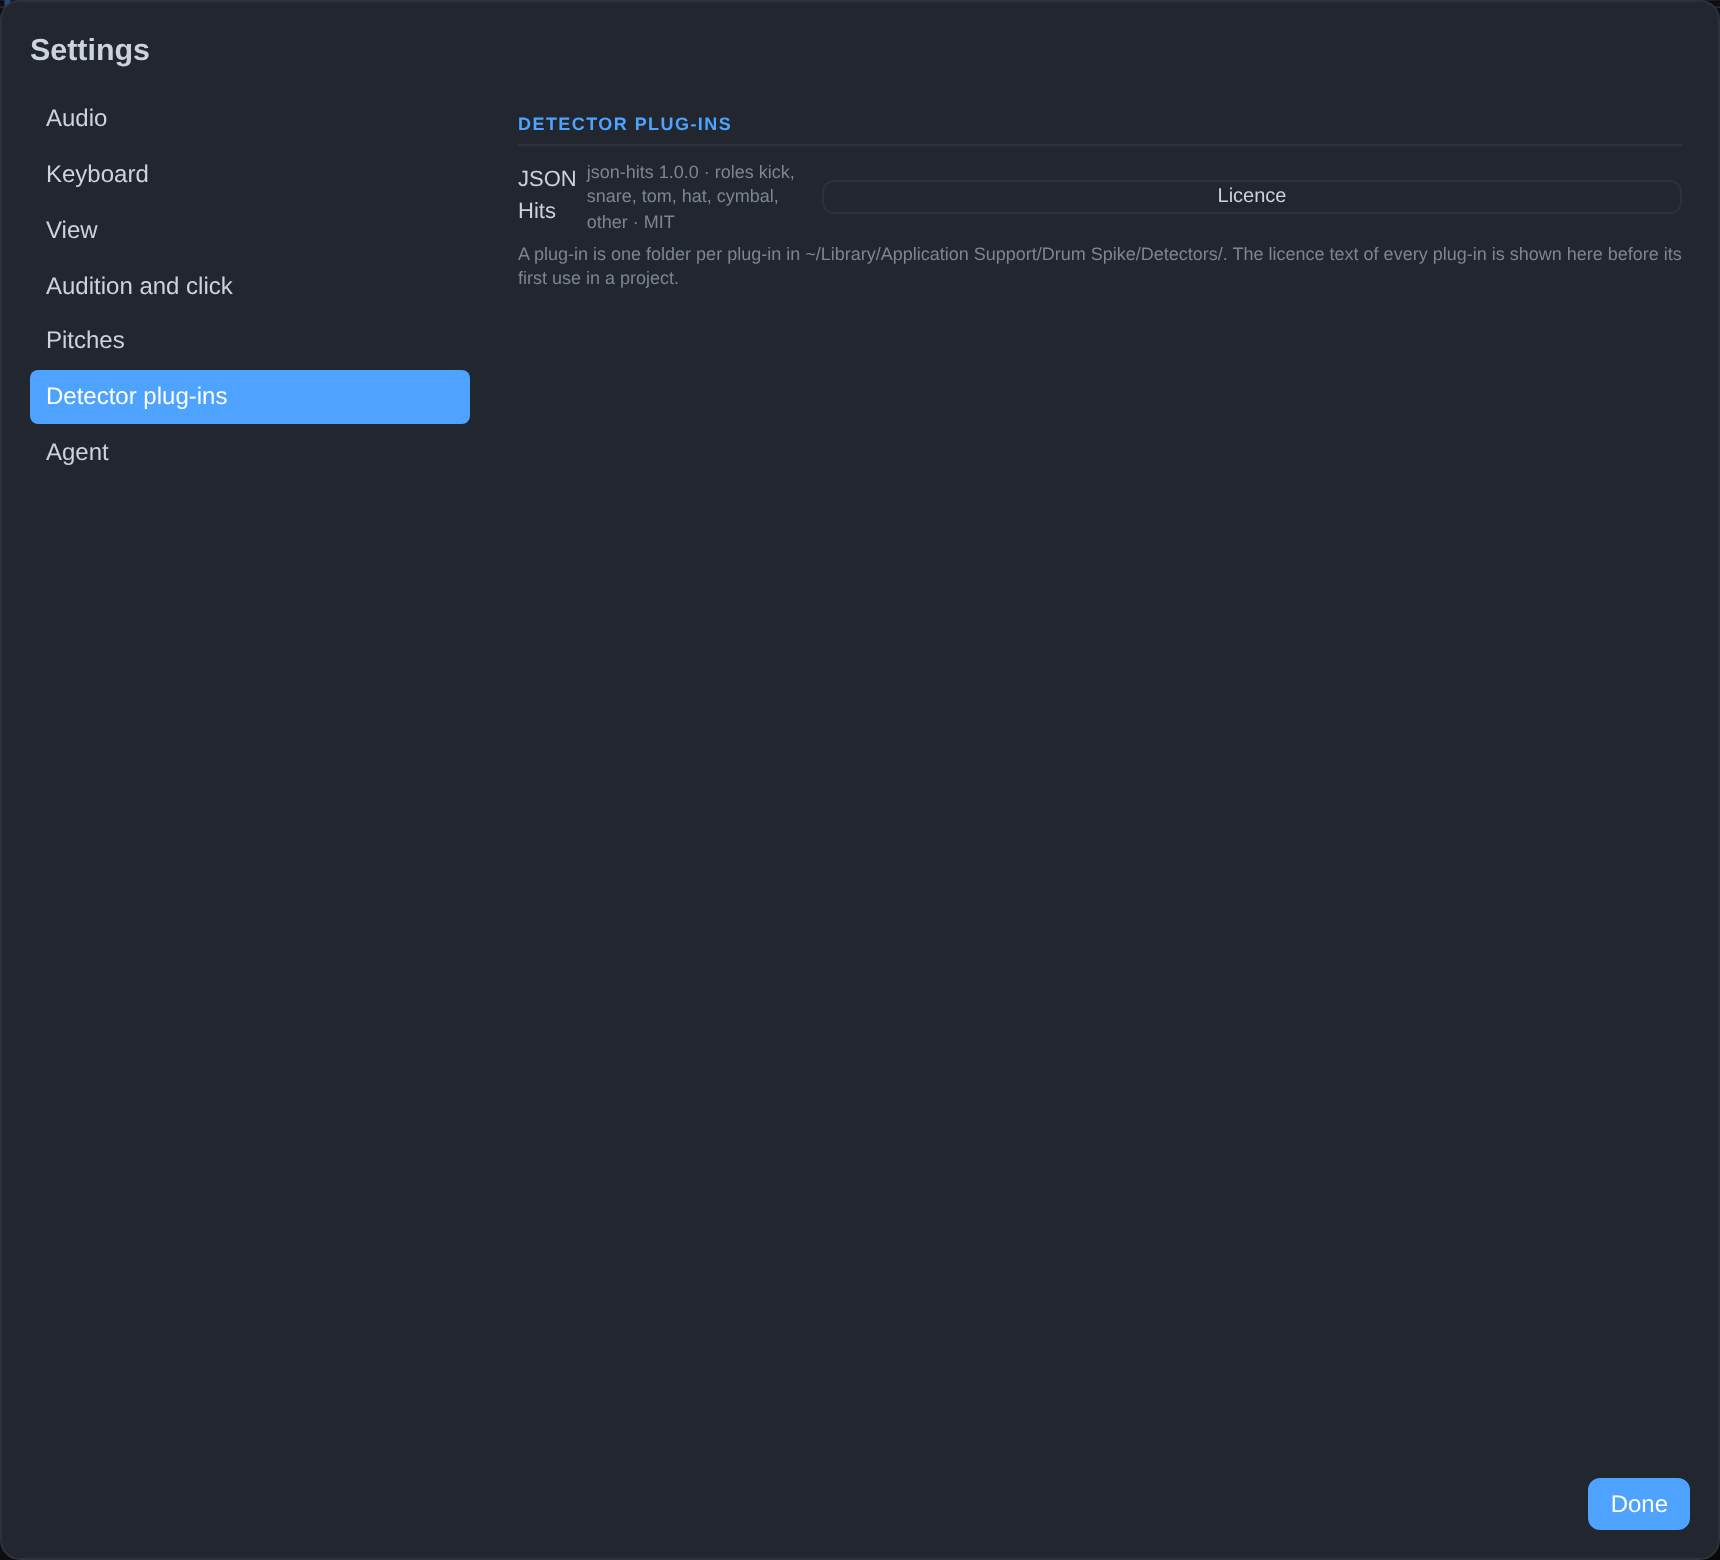
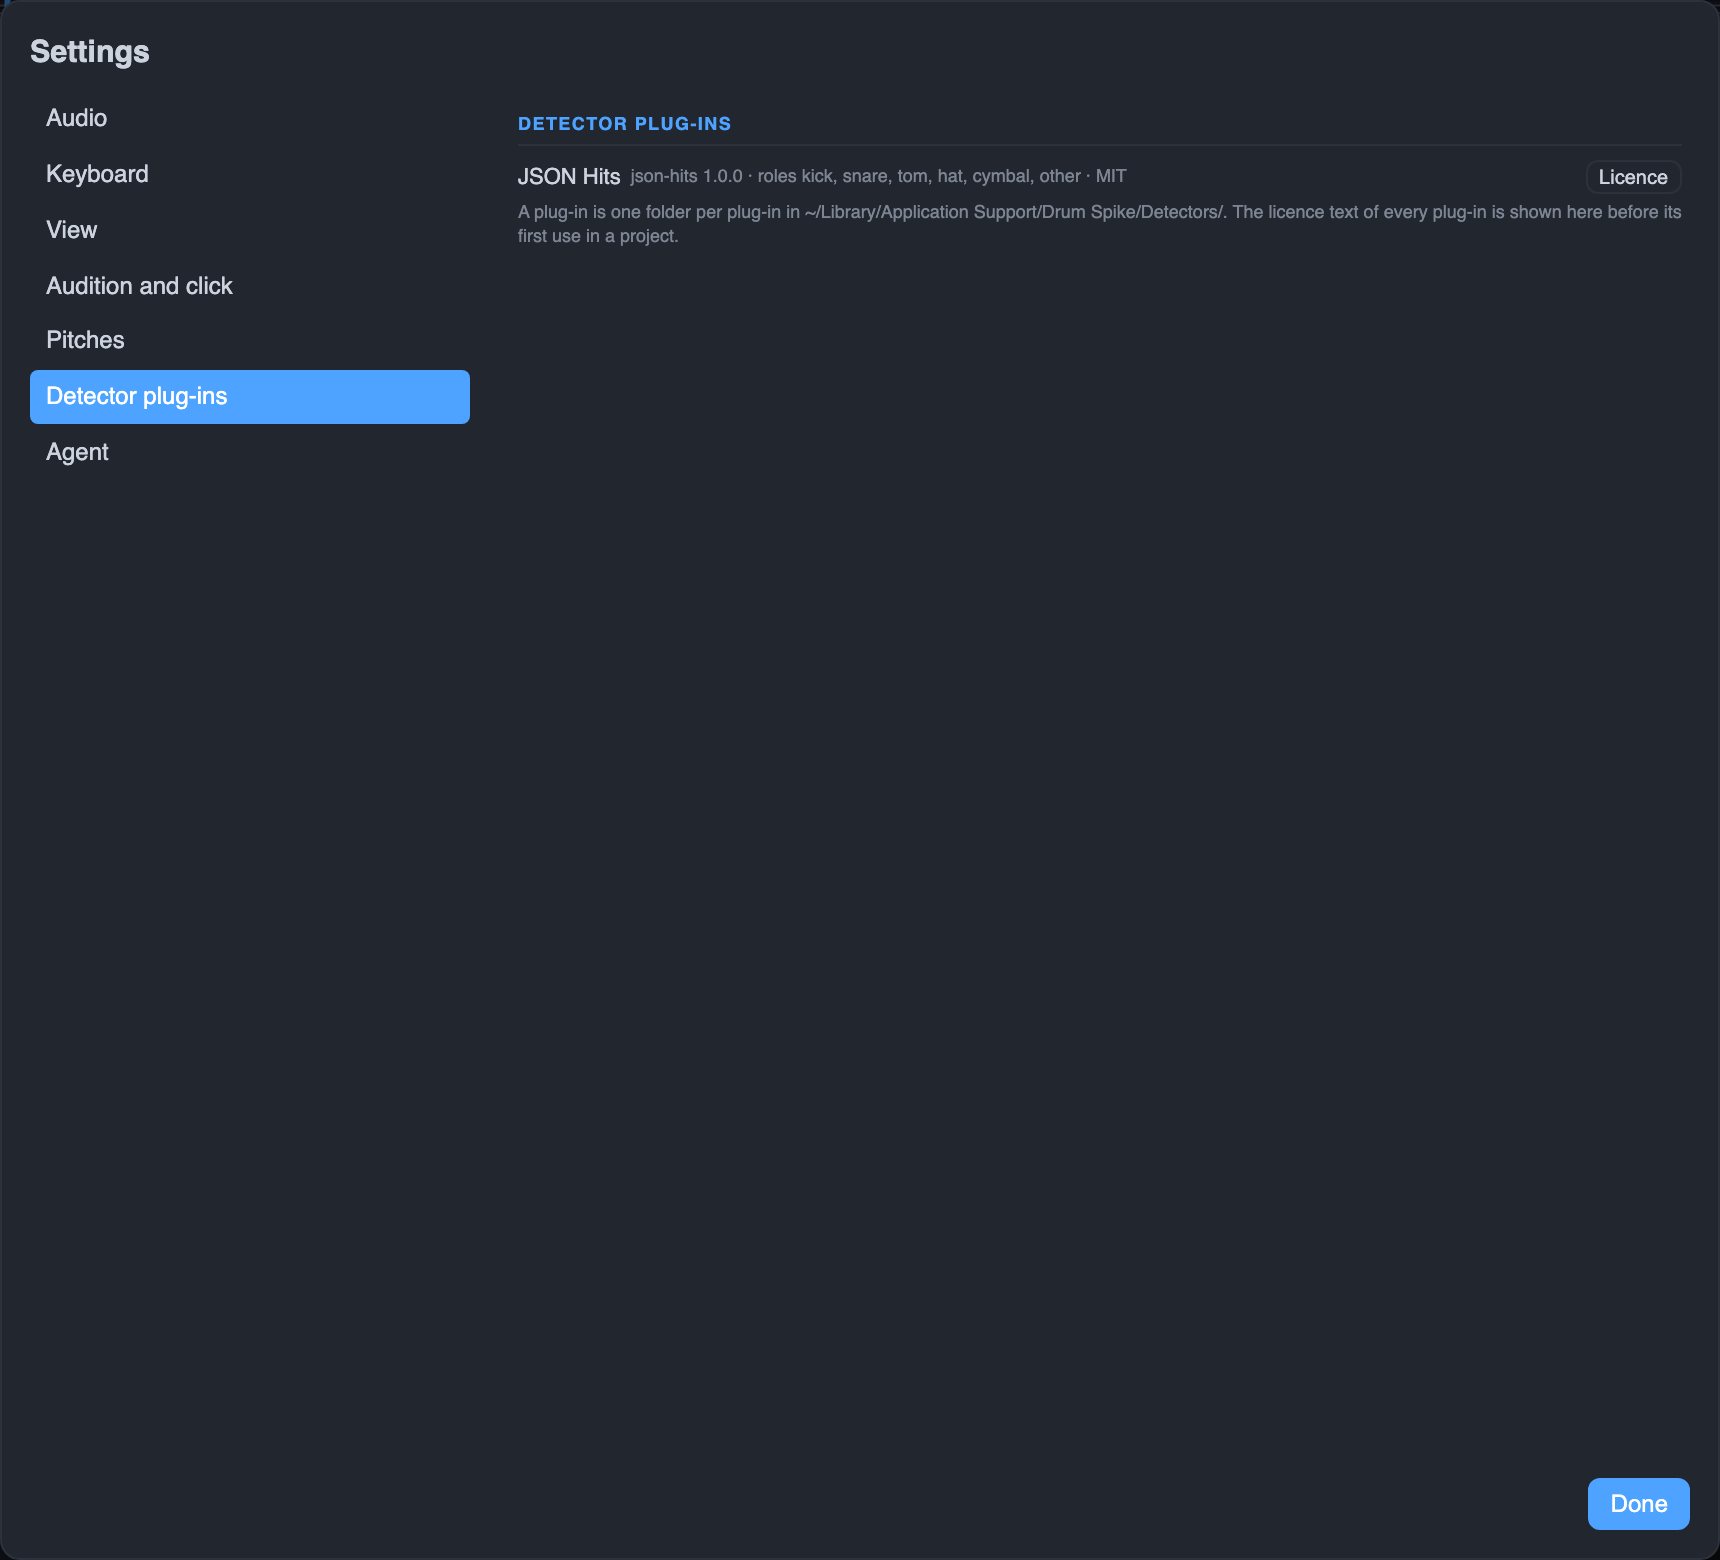
Settings: a detector plug-in row reads as one row (name on one line, Licence button at its width) (#487)
* Settings: a Detector plug-ins row reads as one row (#479)

The Settings row grid put every row's label in a 140 px column and its
control in the rest: a plug-in row's name wrapped inside the 140 px and
the Licence button stretched over the whole row. The plug-in rows now
take 1fr auto: the name and its hint take the row's width, the Licence
button keeps its own width at the row's right edge.

The new e2e test installs the example plug-in and measures the row at
1280x800 and 1920x1080: the name on one line box, the button not wider
than 160 px, the row's right edge the button's right edge.

* docs: retake plugin settings screenshot after row layout fix

tools/media/shots.py --chapters 3 at 2bf5a3cbfb2c; only
docs/guide/img/03b-plugin-settings.png is kept. The two other
chapter 3 pictures are byte-identical to origin/main again.

* docs: rebuild help copy with the retaken plugin settings screenshot

* Settings: serve the checkout's own static folder in the shot bridge (#479)

tools/media/shots.py start_bridge passes --static <ROOT>/static to
ds-bridge: a bridge binary built in another checkout baked that
checkout's static folder at compile time and served the old row
(ds-bridge has no --models; the model-free main needs none).

docs/guide/img/03b-plugin-settings.png retaken at the new head: the
name "JSON Hits" and its detail text on one line each, the Licence
button compact at the row's right edge (62080 bytes). The two other
[…]

Changed region(s): [[0.3081, 0.0923, 0.9552, 0.1846], [0.0308, 0.0308, 0.0924, 0.1231], [0.0308, 0.2462, 0.0616, 0.3077]]

diff --git a/static/style.css b/static/style.css
@@ -305,6 +305,10 @@ canvas.spike.onHit { cursor: ew-resize; }
 #settingsModal .setCat { display: none; }
 #settingsModal .setCat.active { display: block; }
 #settingsModal .prow { grid-template-columns: 140px 1fr; }
+/* #479: the plug-in rows read as one row: the name and its hint take the row's width and the
+   Licence button keeps its own width at the row's right edge (the label/control template above
+   wraps the name in 140 px and stretches the button over the whole row). */
+#settingsModal #setPlugins .prow { grid-template-columns: 1fr auto; }
 #settingsModal .setWarnSlot { min-height: 18px; }   /* #387: the warning's fixed slot, so nothing shifts */
 #setAgentSkill .prow { grid-template-columns: 1fr auto; gap: 8px; }   /* #371: the status text or the command line, then its button */
 #setAgentSkill .skillCmd { font-size: 11px; word-break: break-all; user-select: all; }

diff --git a/tests/e2e_app/test_settings_dialog.py b/tests/e2e_app/test_settings_dialog.py
@@ -6,6 +6,7 @@ import pytest
 from playwright.sync_api import expect
 
 from app_support import menu, settings_cat
+from test_plugins import install_plugin
 
 CATS = ["audio", "keyboard", "view", "audition", "pitches", "plugins", "agent"]
 # every pre-existing #set* control id and the category that holds it (the ids the tests, the
@@ -117,4 +118,39 @@ def test_the_rows_stay_label_left_control_right_at_both_viewports(app, vw, vh):
         const l = r.querySelector('label').getBoundingClientRect();
         const c = r.querySelector('.pctl').getBoundingClientRect(); return [l.right, c.left]; }""")
     assert row[1] >= row[0], row
+    app.keyboard.press("Escape")
+
+
+# The name of one plug-in row and its geometry: the name text of the label (its first non-blank
+# text node), the count of the line boxes it spans (a Range over the text yields one rect per
+# line box), the Licence button's width and the right edges of the row and the button.
+ROW_GEOMETRY = """() => {
+  const row = document.querySelector('#setPlugins .prow');
+  if (!row) return null;
+  const nameNode = [...row.querySelector('label').childNodes].find(n => n.nodeType === 3 && n.textContent.trim());
+  const rng = document.createRange();
+  rng.selectNodeContents(nameNode);
+  const rowBox = row.getBoundingClientRect();
+  const btnBox = row.querySelector('button').getBoundingClientRect();
+  return { name: nameNode.textContent.trim(), nameLines: rng.getClientRects().length,
+           btnW: btnBox.width, rowRight: rowBox.right, btnRight: btnBox.right };
+}"""
+
+
+@pytest.mark.parametrize("vw,vh", [(1280, 800), (1920, 1080)])
+def test_a_plugin_row_reads_as_one_row_at_both_viewports(app, vw, vh):
+    """#479: with the example plug-in installed, a Detector plug-ins row is one row at the small
+    and the large viewport: the name on one line box, the Licence button at its own width (not
+    stretched over the row) and flush with the row's right edge."""
+    install_plugin(app.home, {"kick": [0.5]})
+    app.set_viewport_size({"width": vw, "height": vh})
+    menu(app, "settings")
+    settings_cat(app, "plugins")
+    row = app.locator("#setPlugins .prow")
+    row.wait_for(state="visible", timeout=15000)
+    m = app.evaluate(ROW_GEOMETRY)
+    assert m is not None, "no plug-in row in #setPlugins"
+    assert m["nameLines"] == 1, m
+    assert m["btnW"] <= 160, m
+    assert abs(m["rowRight"] - m["btnRight"]) < 0.5, m
     app.keyboard.press("Escape")

diff --git a/tools/media/shots.py b/tools/media/shots.py
@@ -144,7 +144,10 @@ def start_bridge(home):
     env = dict(os.environ, HOME=str(home), DRUMSPIKE_HOME=str(home), DRUMSPIKE_PROJECTS=str(home / "projects"),
                DRUMSPIKE_AUTOSAVE_SECONDS="1", DRUMSPIKE_AUDIO="null", DRUMSPIKE_MASTER_GAIN="0",
                DRUMSPIKE_DETECTORS_DIR=str(home / "Library" / "Application Support" / "Drum Spike" / "Detectors"))
-    proc = subprocess.Popen([str(BRIDGE)], cwd=ROOT, stdout=subprocess.PIPE, stderr=subprocess.STDOUT, text=True, env=env)
+    # #479: the checkout's own static folder, not the one baked into a shared binary: a bridge
+    # built in another checkout would otherwise serve that checkout's page (an old style.css).
+    proc = subprocess.Popen([str(BRIDGE), "--static", str(ROOT / "static")], cwd=ROOT,
+                            stdout=subprocess.PIPE, stderr=subprocess.STDOUT, text=True, env=env)
     line = proc.stdout.readline()
     m = re.search(r"http://127\.0\.0\.1:\d+", line)
     if not m:
